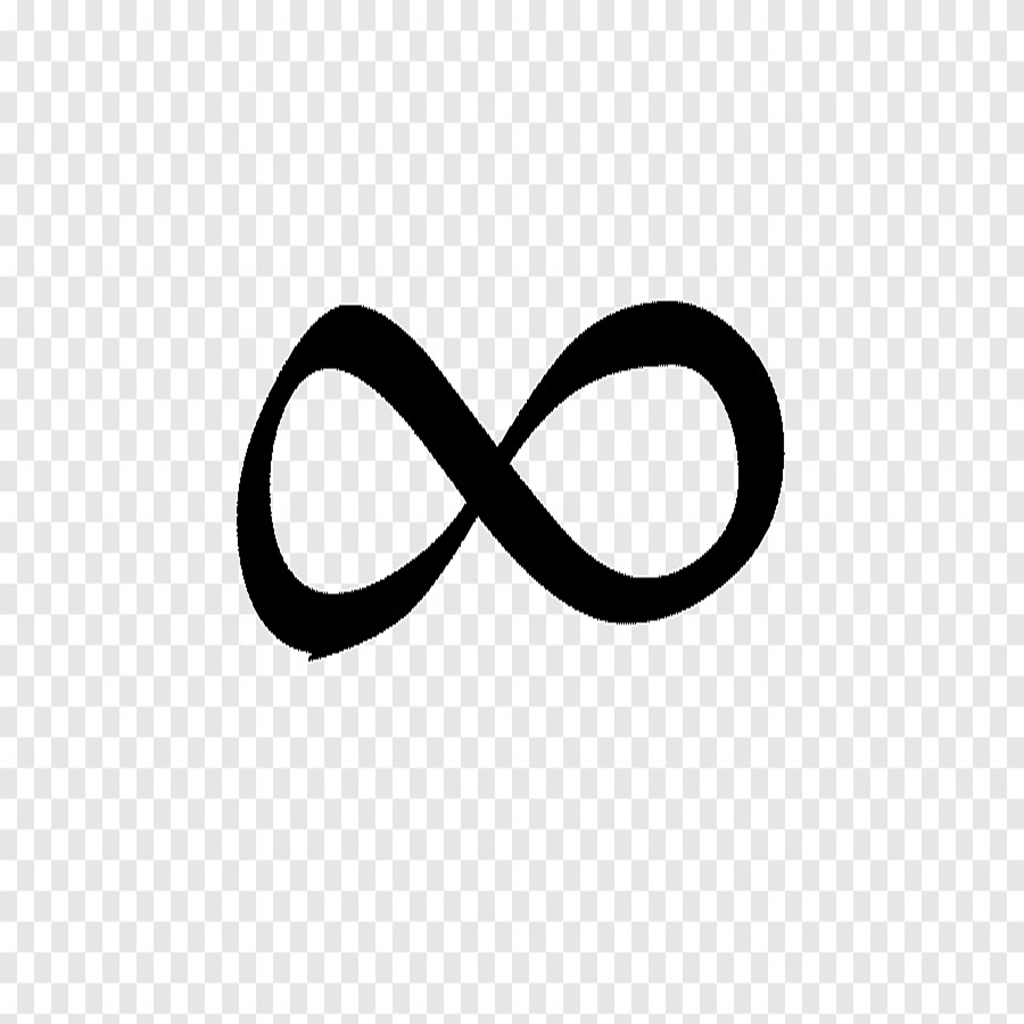
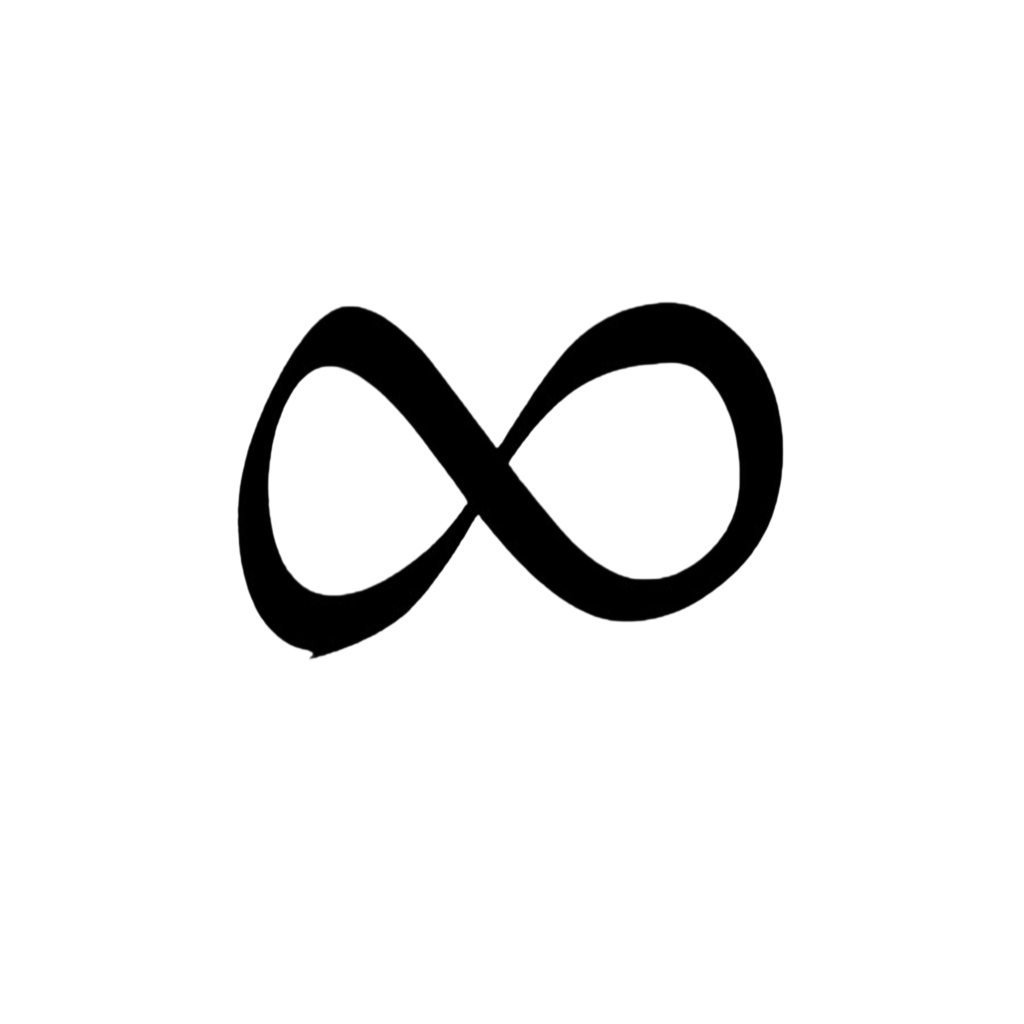
feat: improve planner widget sync and polish task UI

diff --git a/lib/services/firestore_service.dart b/lib/services/firestore_service.dart
@@ -1,8 +1,10 @@
+import 'dart:convert';
 import 'package:cloud_firestore/cloud_firestore.dart';
 import 'package:firebase_auth/firebase_auth.dart';
 import 'package:flutter/material.dart';
-import '../models/planner_model.dart'; 
-import '../screens/daily_planner_screen.dart'; // 🌟 Required to clear notification alarms
+import 'package:home_widget/home_widget.dart';
+import '../models/planner_model.dart';
+import '../screens/daily_planner_screen.dart';
 import 'home_widget_service.dart';
 
 class FirestoreService {
@@ -18,7 +20,60 @@ class FirestoreService {
     return _db.collection('users').doc(user.uid).collection('planner');
   }
 
-  /// 📤 STREAM: Real-time loop listening for database changes
+  Future<void> syncWidgetChangesToFirestore() async {
+    try {
+      final String? tasksJson =
+          await HomeWidget.getWidgetData<String>('flutter.daily_tasks_key');
+
+      if (tasksJson == null || tasksJson.isEmpty) return;
+
+      final List<dynamic> widgetTasks = jsonDecode(tasksJson);
+      final ref = _plannerRef;
+      if (ref == null) return;
+
+      final snapshot = await ref.get();
+      final currentTasks = snapshot.docs
+          .map((doc) => PlannerModel.fromMap(doc.data()))
+          .toList();
+
+      final Map<String, PlannerModel> taskMap = {
+        for (final task in currentTasks) task.id: task,
+      };
+
+      bool changedAnything = false;
+
+      for (final raw in widgetTasks) {
+        if (raw is! Map<String, dynamic>) continue;
+
+        final String? taskId = raw['id'] as String?;
+        final bool widgetDone = raw['isDone'] as bool? ?? false;
+
+        if (taskId == null) continue;
+
+        final existing = taskMap[taskId];
+        if (existing == null) continue;
+
+        if (existing.isDone != widgetDone) {
+          await ref.doc(taskId).set(
+            existing.copyWith(isDone: widgetDone).toMap(),
+            SetOptions(merge: true),
+          );
+          changedAnything = true;
+        }
+      }
+
+      if (changedAnything) {
+        final refreshed = await ref.get();
+        final refreshedTasks = refreshed.docs
+            .map((doc) => PlannerModel.fromMap(doc.data()))
+            .toList();
+        _processAndSyncWidgets(refreshedTasks);
+      }
+    } catch (e) {
+      debugPrint("Widget sync-back failed: $e");
+    }
+  }
+
   Stream<List<PlannerModel>> streamPlannerEntries() {
     final ref = _plannerRef;
     if (ref == null) return Stream.value([]);
@@ -27,17 +82,7 @@ class FirestoreService {
       final List<PlannerModel> entries = snapshot.docs.map((doc) {
         return PlannerModel.fromMap(doc.data());
       }).toList();
-      
-      final seenTitles = <String>{};
-      for (var entry in List.from(entries)) {
-        if (seenTitles.contains(entry.title)) {
-          // Deletes database clones
-          instance.deleteTask(entry.id);
-        } else {
-          seenTitles.add(entry.title);
-        }
-      }
-      
+            
       _processAndSyncWidgets(entries);
       return entries;
     });

diff --git a/lib/screens/daily_planner_screen.dart b/lib/screens/daily_planner_screen.dart
@@ -42,7 +42,7 @@ class NotificationService {
 
     await _plugin.initialize(
       settings: const InitializationSettings(
-        android: AndroidInitializationSettings('@mipmap/ic_launcher'),
+        android: AndroidInitializationSettings('@drawable/ic_stat_moon'),
         iOS: DarwinInitializationSettings(
           requestAlertPermission: true,
           requestBadgePermission: true,
@@ -69,6 +69,7 @@ class NotificationService {
         channelDescription: 'Reminders for your daily planner tasks',
         importance: Importance.high,
         priority: Priority.high,
+        icon: '@drawable/ic_stat_moon',
       ),
       iOS: DarwinNotificationDetails(
         presentAlert: true,
@@ -132,8 +133,36 @@ class SelectedDayEntriesNotifier extends Notifier<List<PlannerModel>> {
   }
 }
 
-class DailyPlannerScreen extends ConsumerWidget {
+class DailyPlannerScreen extends ConsumerStatefulWidget {
   const DailyPlannerScreen({super.key});
+
+  @override
+  ConsumerState<DailyPlannerScreen> createState() => _DailyPlannerScreenState();
+}
+
+class _DailyPlannerScreenState extends ConsumerState<DailyPlannerScreen>
+    with WidgetsBindingObserver {
+  @override
+  void initState() {
+    super.initState();
+    WidgetsBinding.instance.addObserver(this);
+    Future.microtask(() {
+      FirestoreService.instance.syncWidgetChangesToFirestore();
+    });
+  }
+
+  @override
+  void dispose() {
+    WidgetsBinding.instance.removeObserver(this);
+    super.dispose();
+  }
+
+  @override
+  void didChangeAppLifecycleState(AppLifecycleState state) {
+    if (state == AppLifecycleState.resumed) {
+      FirestoreService.instance.syncWidgetChangesToFirestore();
+    }
+  }
 
   void _openAddSheet(BuildContext context, WidgetRef ref,
       {PlannerModel? initialEntry}) {
@@ -152,7 +181,7 @@ class DailyPlannerScreen extends ConsumerWidget {
   }
 
   @override
-  Widget build(BuildContext context, WidgetRef ref) {
+  Widget build(BuildContext context) {
     return Scaffold(
       backgroundColor: Theme.of(context).colorScheme.surfaceContainerLowest,
       body: Column(
@@ -474,11 +503,14 @@ class _TaskRowState extends ConsumerState<_TaskRow>
     final cs = theme.colorScheme;
     final entry = widget.entry;
     final now = DateTime.now();
-    final taskDay = DateTime(entry.startTime.year, entry.startTime.month, entry.startTime.day);
-    final today = DateTime(now.year, now.month, now.day);
+    // final taskDay = DateTime(entry.startTime.year, entry.startTime.month, entry.startTime.day);
+    // final today = DateTime(now.year, now.month, now.day);
 
-    final isOverdue = !entry.isDone && 
-        (taskDay.isBefore(today) || (taskDay.isAtSameMomentAs(today) && now.isAfter(entry.endTime)));
+    final endDateTime = entry.endTime.isAfter(entry.startTime)
+        ? entry.endTime
+        : entry.endTime.add(const Duration(days: 1));
+
+    final isOverdue = !entry.isDone && now.isAfter(endDateTime);
 
     return Dismissible(
       key: Key(entry.id),

diff --git a/lib/services/home_widget_service.dart b/lib/services/home_widget_service.dart
@@ -5,36 +5,41 @@ import '../models/planner_model.dart';
 
 class HomeWidgetService {
   static Future<void> updateHomeScreenWidgetData(List<PlannerModel> tasks) async {
-    try {
-      // 🌟 FIX: We map directly to a single, cleanly defined variable array
-      final List<Map<String, dynamic>> mappedTasks = tasks.map((t) {
-        final hour = t.startTime.hour % 12 == 0 ? 12 : t.startTime.hour % 12;
-        final minute = t.startTime.minute.toString().padLeft(2, '0');
-        final period = t.startTime.hour < 12 ? 'AM' : 'PM';
-        
-        return {
-          'title': t.title,
-          'isDone': t.isDone,
-          'time': '$hour:$minute $period'
-        };
-      }).toList();
+  try {
+    final List<Map<String, dynamic>> mappedTasks = tasks.map((t) {
+      final hour = t.startTime.hour % 12 == 0 ? 12 : t.startTime.hour % 12;
+      final minute = t.startTime.minute.toString().padLeft(2, '0');
+      final period = t.startTime.hour < 12 ? 'AM' : 'PM';
 
-      final String tasksJson = jsonEncode(mappedTasks);
-      debugPrint("🚀 WIDGET DATA PUSHED: $tasksJson");
+      const months = [
+        'Jan', 'Feb', 'Mar', 'Apr', 'May', 'Jun',
+        'Jul', 'Aug', 'Sep', 'Oct', 'Nov', 'Dec'
+      ];
+      final date = '${t.startTime.day} ${months[t.startTime.month - 1]} ${t.startTime.year}';
 
-      // Write the preference data strings out asynchronously
-      await Future.wait([
-        HomeWidget.saveWidgetData<String>('daily_tasks_key', tasksJson),
-        HomeWidget.saveWidgetData<String>('flutter.daily_tasks_key', tasksJson),
-      ]);
+      return {
+        'id': t.id,
+        'title': t.title,
+        'isDone': t.isDone,
+        'time': '$hour:$minute $period',
+        'date': date,
+      };
+    }).toList();
 
-      // Inform the native launcher interface framework manager to refresh
-      await HomeWidget.updateWidget(
-        name: 'DailyTaskWidgetProvider',
-        androidName: 'DailyTaskWidgetProvider',
-      );
-    } catch (e) {
-      debugPrint("⚠ Asynchronous home widget sync failed: $e");
-    }
+    final String tasksJson = jsonEncode(mappedTasks);
+    debugPrint("🚀 WIDGET DATA PUSHED: $tasksJson");
+
+    await Future.wait([
+      HomeWidget.saveWidgetData('daily_tasks_key', tasksJson),
+      HomeWidget.saveWidgetData('flutter.daily_tasks_key', tasksJson),
+    ]);
+
+    await HomeWidget.updateWidget(
+      name: 'DailyTaskWidgetProvider',
+      androidName: 'DailyTaskWidgetProvider',
+    );
+  } catch (e) {
+    debugPrint("⚠ Asynchronous home widget sync failed: $e");
   }
+}
 }

diff --git a/lib/screens/todo_list_screen.dart b/lib/screens/todo_list_screen.dart
@@ -27,13 +27,19 @@ class TodoListScreen extends ConsumerWidget {
             isScrollable: false,
             tabAlignment: TabAlignment.fill,
             indicatorSize: TabBarIndicatorSize.tab,
-            labelStyle: TextStyle(fontWeight: FontWeight.w700, fontSize: 13),
-            unselectedLabelStyle: TextStyle(fontWeight: FontWeight.w500, fontSize: 13),
+            labelStyle: TextStyle(
+              fontWeight: FontWeight.w700,
+              fontSize: 13,
+            ),
+            unselectedLabelStyle: TextStyle(
+              fontWeight: FontWeight.w500,
+              fontSize: 13,
+            ),
             tabs: [
               Tab(text: 'All'),
               Tab(text: 'Tasks'),
               Tab(text: 'Lists'),
-              Tab(text: 'Completed'),
+              Tab(text: 'Done'),
             ],
           ),
         ),

diff --git a/android/app/src/main/kotlin/com/example/cheq/DailyTaskWidgetProvider.kt b/android/app/src/main/kotlin/com/example/cheq/DailyTaskWidgetProvider.kt
@@ -96,7 +96,7 @@ class DailyTaskWidgetProvider : HomeWidgetProvider() {
             }
             views.setRemoteAdapter(R.id.widget_list_view, serviceIntent)
             
-            // 🌟 NATIVE ANDROID MAGIC: Automatically handles the blank state. 
+            // NATIVE ANDROID MAGIC: Automatically handles the blank state. 
             // If the RemoteViewsService returns 0 items, Android natively displays the empty_view.
             views.setEmptyView(R.id.widget_list_view, R.id.empty_view)
             views.setViewVisibility(R.id.widget_list_view, android.view.View.VISIBLE)

diff --git a/android/app/src/main/kotlin/com/example/cheq/WidgetRemoteViewsService.kt b/android/app/src/main/kotlin/com/example/cheq/WidgetRemoteViewsService.kt
@@ -48,6 +48,7 @@ class WidgetDataProviderFactory(private val context: Context) : RemoteViewsServi
             val title = task.optString("title", "Untitled")
             val isDone = task.optBoolean("isDone", false)
             val time = task.optString("time", "")
+            val date = task.optString("date", "")
 
             views.setTextViewText(R.id.row_check_icon, if (isDone) "✓" else "○")
             views.setTextViewText(R.id.row_task_text, if (time.isNotEmpty()) "$time | $title" else title)

diff --git a/lib/screens/auth_gate.dart b/lib/screens/auth_gate.dart
@@ -156,7 +156,7 @@ class _SignInScreenState extends ConsumerState<_SignInScreen> {
               ),
               const SizedBox(height: 28),
               Text(
-                'Welcome to Cheq',
+                'Welcome to moon',
                 style: theme.textTheme.headlineMedium?.copyWith(
                   fontWeight: FontWeight.w800,
                   color: cs.onSurface,

diff --git a/lib/main.dart b/lib/main.dart
@@ -35,7 +35,7 @@ class CheqApp extends ConsumerWidget {
     final currentAccent = ref.watch(customAccentProvider);
 
     return MaterialApp(
-      title: 'Cheq',
+      title: 'moon',
       debugShowCheckedModeBanner: false,
       
       // Pass the active theme state parameter here
